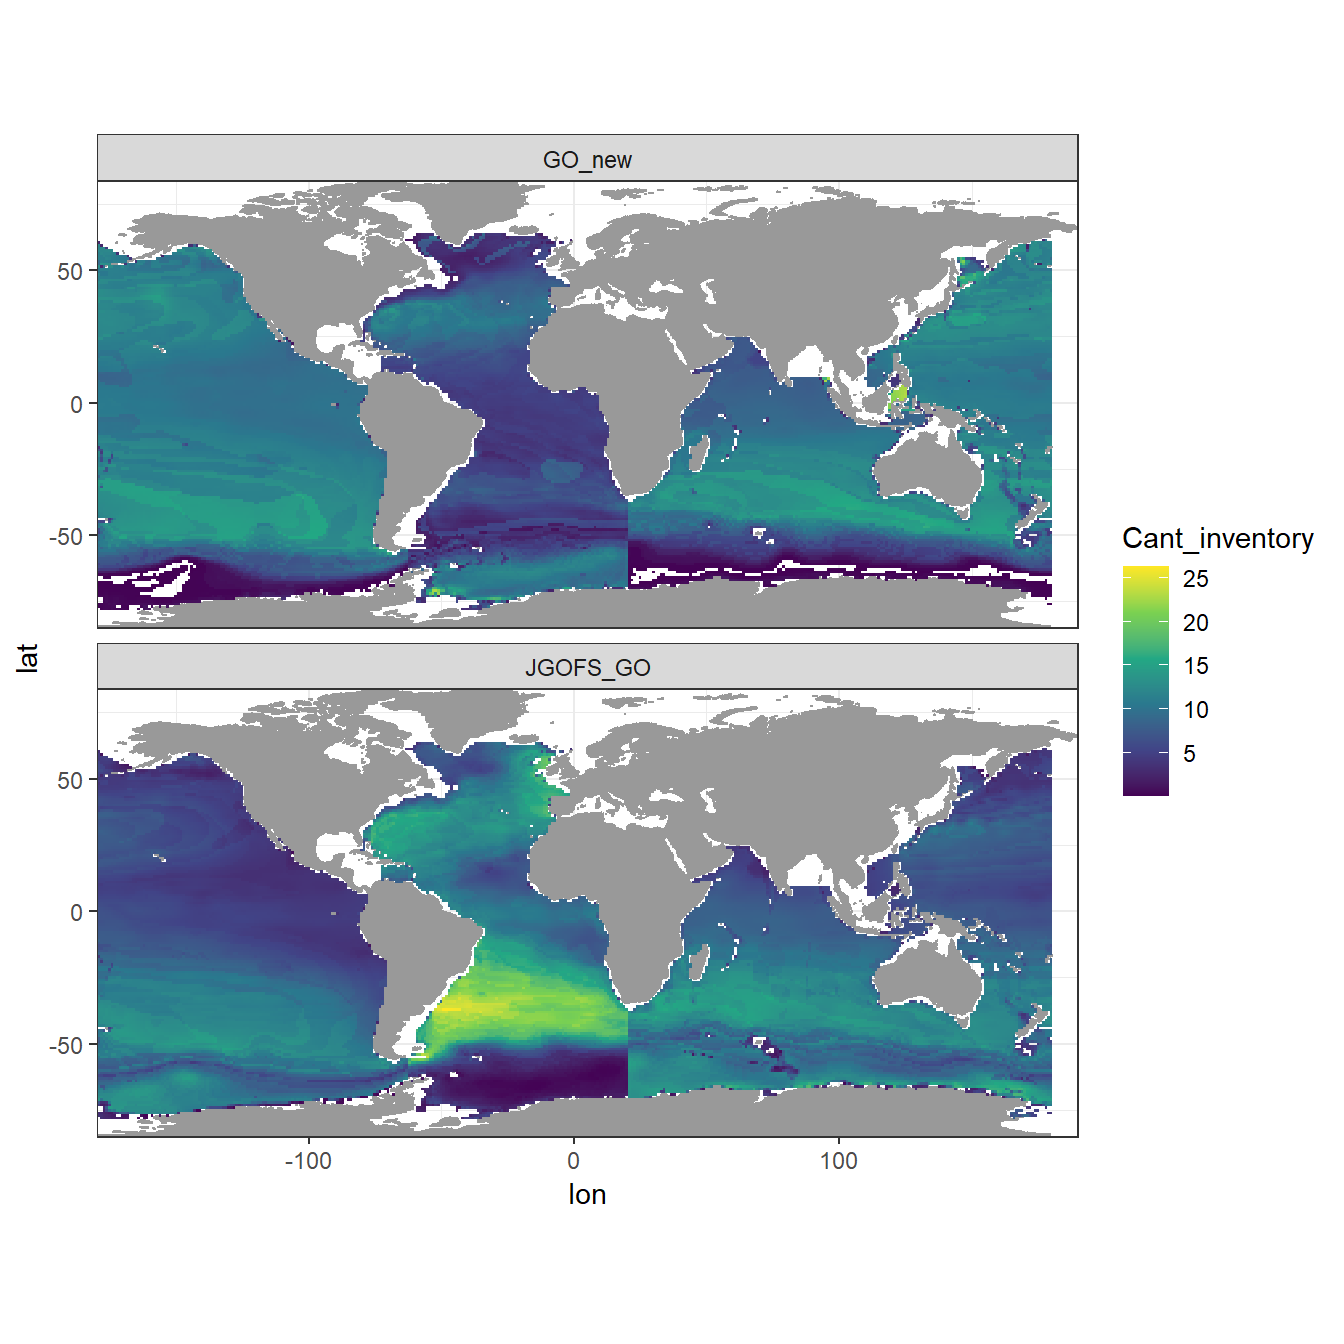
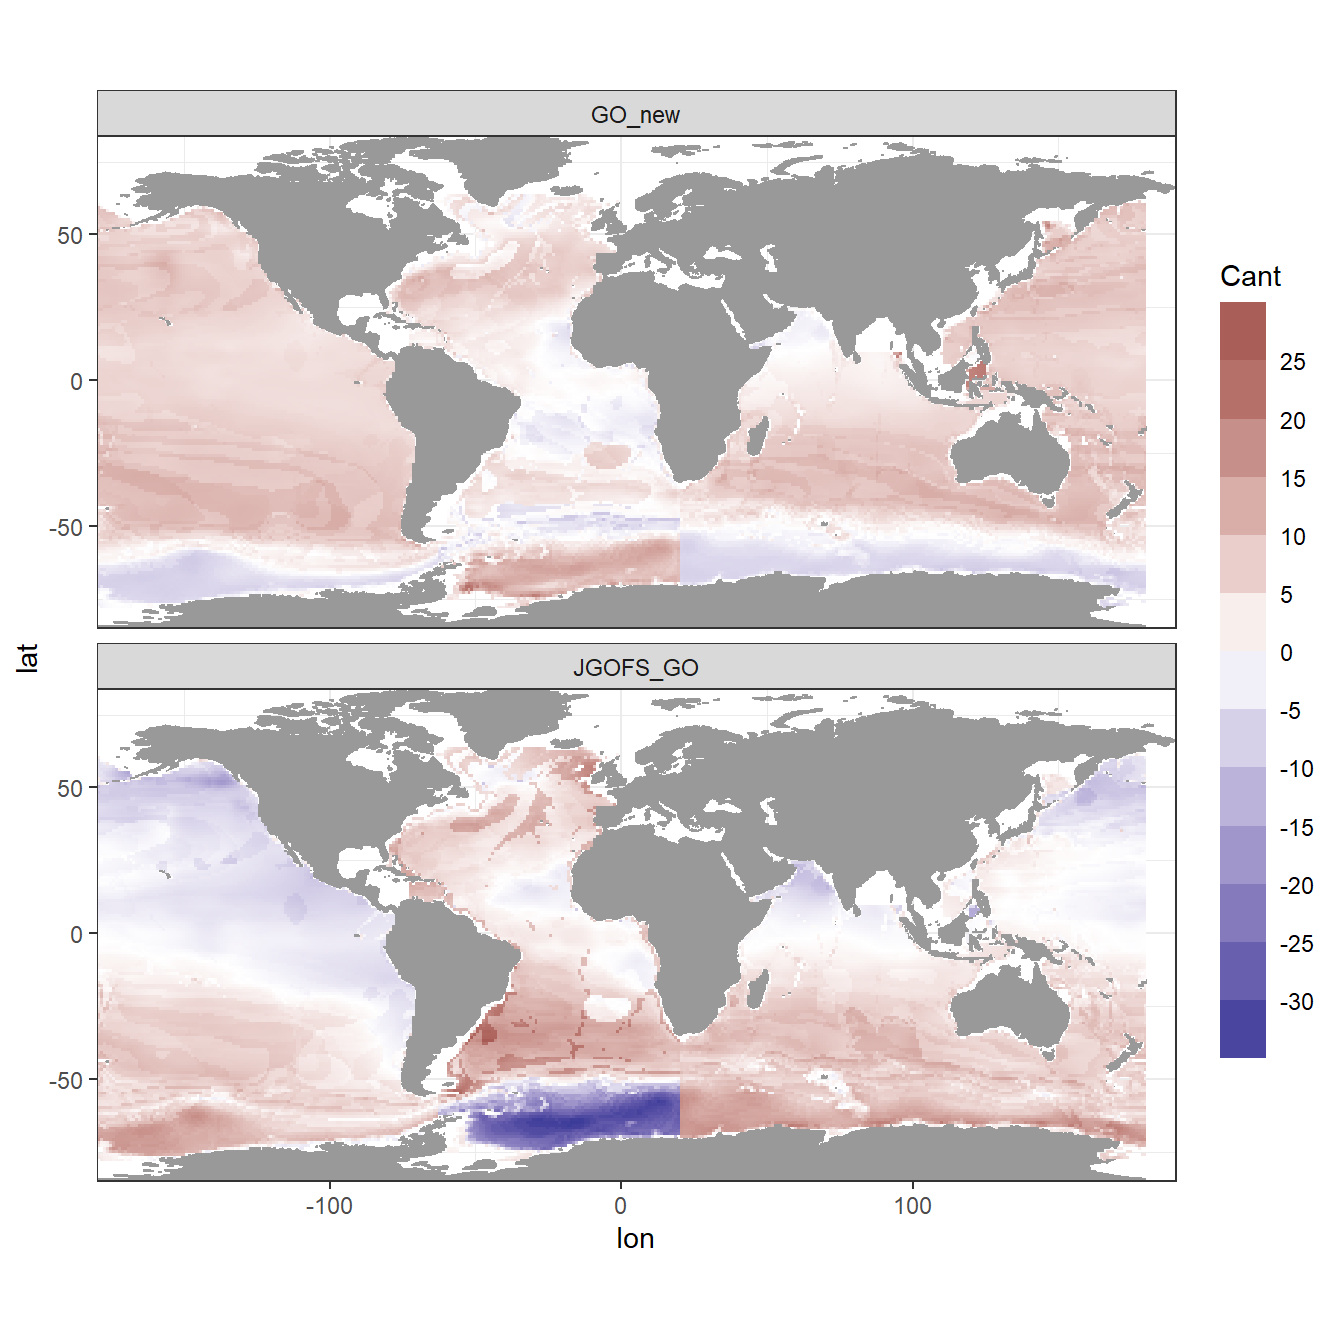
Build site.

diff --git a/docs/mapping.html b/docs/mapping.html
@@ -549,16 +549,16 @@ This reproducible <a href="http://rmarkdown.rstudio.com">R Markdown</a> analysis
 <div class="panel panel-default">
 <div class="panel-heading">
 <p class="panel-title">
-<a data-toggle="collapse" data-parent="#workflowr-checks" href="#strongRepositoryversionstrongahrefhttpsgithubcomjensdanielmuellerCanteMLRtree392f59457d3da0c8bdac5122205ac5ef70fc10d6targetblank392f594a"> <span class="glyphicon glyphicon-ok text-success" aria-hidden="true"></span> <strong>Repository version:</strong> <a href="https://github.com/jens-daniel-mueller/Cant_eMLR/tree/392f59457d3da0c8bdac5122205ac5ef70fc10d6" target="_blank">392f594</a> </a>
+<a data-toggle="collapse" data-parent="#workflowr-checks" href="#strongRepositoryversionstrongahrefhttpsgithubcomjensdanielmuellerCanteMLRtreeef5ef59e41e6cc61644da71014f013bddfe10c06targetblankef5ef59a"> <span class="glyphicon glyphicon-ok text-success" aria-hidden="true"></span> <strong>Repository version:</strong> <a href="https://github.com/jens-daniel-mueller/Cant_eMLR/tree/ef5ef59e41e6cc61644da71014f013bddfe10c06" target="_blank">ef5ef59</a> </a>
 </p>
 </div>
[2 lines of base64/hex data omitted]
 <div class="panel-body">
 <p>
 Great! You are using Git for version control. Tracking code development and connecting the code version to the results is critical for reproducibility.
 </p>
 <p>
-The results in this page were generated with repository version <a href="https://github.com/jens-daniel-mueller/Cant_eMLR/tree/392f59457d3da0c8bdac5122205ac5ef70fc10d6" target="_blank">392f594</a>. See the <em>Past versions</em> tab to see a history of the changes made to the R Markdown and HTML files.
+The results in this page were generated with repository version <a href="https://github.com/jens-daniel-mueller/Cant_eMLR/tree/ef5ef59e41e6cc61644da71014f013bddfe10c06" target="_blank">ef5ef59</a>. See the <em>Past versions</em> tab to see a history of the changes made to the R Markdown and HTML files.
 </p>
 <p>
 Note that you need to be careful to ensure that all relevant files for the analysis have been committed to Git prior to generating the results (you can use <code>wflow_publish</code> or <code>wflow_git_commit</code>). workflowr only checks the R Markdown file, but you know if there are other scripts or data files that it depends on. Below is the status of the Git repository when the results were generated:
@@ -615,6 +615,40 @@ Message
 </tr>
 </thead>
 <tbody>
+<tr>
+<td>
+Rmd
+</td>
+<td>
+<a href="https://github.com/jens-daniel-mueller/Cant_eMLR/blob/ef5ef59e41e6cc61644da71014f013bddfe10c06/analysis/mapping.Rmd" target="_blank">ef5ef59</a>
+</td>
+<td>
+jens-daniel-mueller
+</td>
+<td>
+2020-08-05
+</td>
+<td>
+Inventories without sign and formating
+</td>
+</tr>
+<tr>
+<td>
+html
+</td>
+<td>
+<a href="https://rawcdn.githack.com/jens-daniel-mueller/Cant_eMLR/68fc06a67d3da2d39a18b694a3f8c6feee5ffed2/docs/mapping.html" target="_blank">68fc06a</a>
+</td>
+<td>
+jens-daniel-mueller
+</td>
+<td>
+2020-08-05
+</td>
+<td>
+Build site.
+</td>
+</tr>
 <tr>
 <td>
 Rmd
@@ -1505,6 +1539,30 @@ Cant_model_average_zonal &lt;- Cant_model_average %&gt;%
 </div>
 <div id="cant-maps" class="section level1">
 <h1><span class="header-section-number">6</span> Cant maps</h1>
+<div id="depth-layers" class="section level2">
+<h2><span class="header-section-number">6.1</span> Depth layers</h2>
+<pre class="r"><code>mapWorld &lt;- borders(&quot;world&quot;, colour = &quot;gray60&quot;, fill = &quot;gray60&quot;)
+
+Cant_model_average %&gt;%
+  filter(depth %in% c(150, 500, 1000, 3000)) %&gt;% 
+  ggplot(aes(lon, lat, fill = Cant_mean)) + 
+  mapWorld +
+  geom_raster() +
+  scale_fill_divergent(guide = &quot;colorstrip&quot;,
+                       breaks = MakeBreaks(5),
+                       name = &quot;Cant&quot;) +
+  guides(fill = guide_colorsteps(barheight = unit(10, &quot;cm&quot;))) +
+  coord_quickmap(expand = 0) +
+  facet_grid(depth~eras)</code></pre>
+<p><img src="figure/mapping.Rmd/Cant_depth_layer_maps-1.png" width="672" style="display: block; margin: auto;" /></p>
+</div>
+<div id="inventory-calculation" class="section level2">
+<h2><span class="header-section-number">6.2</span> Inventory calculation</h2>
+<p>To calculate Cant column inventories, we:</p>
+<ol style="list-style-type: decimal">
+<li>Multiple layer thickness with Cant concentration to get a layer inventory</li>
+<li>Sum positive Cant layer inventories from 150 - 3000 m</li>
+</ol>
 <pre class="r"><code>depth_level_volume &lt;- tibble(
   depth = unique(Cant_model_average_zonal$depth))
 
@@ -1522,36 +1580,40 @@ rm(depth_level_volume)</code></pre>
   mutate(Cant_layer = Cant_mean * layer_thickness)
 
 Cant_inventory &lt;- Cant_model_average %&gt;% 
-  filter(depth &lt; 3000,
-         Cant_layer &gt;= 0) %&gt;% 
+  filter(depth &lt;= 3000) %&gt;% 
+  mutate(Cant_pos_layer = if_else(Cant_layer &lt; 0, 0, Cant_layer)) %&gt;% 
   group_by(lon, lat, basin, eras) %&gt;% 
-  summarise(Cant_inventory = sum(Cant_layer, na.rm = TRUE) / 1000) %&gt;% 
+  summarise(Cant_pos_inventory = sum(Cant_pos_layer, na.rm = TRUE) / 1000,
+            Cant_inventory = sum(Cant_layer, na.rm = TRUE) / 1000) %&gt;% 
   ungroup()</code></pre>
-<div id="depth-layers" class="section level2">
-<h2><span class="header-section-number">6.1</span> Depth layers</h2>
-<pre class="r"><code>mapWorld &lt;- borders(&quot;world&quot;, colour = &quot;gray60&quot;, fill = &quot;gray60&quot;)
-
-Cant_model_average %&gt;%
-  filter(depth %in% c(150, 500, 1000, 3000)) %&gt;% 
-  ggplot(aes(lon, lat, fill = Cant_mean)) + 
-  mapWorld +
-  geom_raster() +
-  scale_fill_steps2(breaks = seq(-100,100,10)) +
-  guides(fill = guide_colorsteps(barheight = unit(10, &quot;cm&quot;))) +
-  coord_quickmap(expand = 0) +
-  facet_grid(depth~eras)</code></pre>
-<p><img src="figure/mapping.Rmd/Cant_depth_layer_maps-1.png" width="672" style="display: block; margin: auto;" /></p>
 </div>
 <div id="inventories" class="section level2">
-<h2><span class="header-section-number">6.2</span> Inventories</h2>
+<h2><span class="header-section-number">6.3</span> Inventories</h2>
+<div id="all-cant-estimates" class="section level3">
+<h3><span class="header-section-number">6.3.1</span> All Cant estimates</h3>
 <pre class="r"><code>Cant_inventory %&gt;% 
   ggplot(aes(lon, lat, fill = Cant_inventory)) + 
+  mapWorld +
+  geom_raster() +
+  scale_fill_divergent(guide = &quot;colorstrip&quot;,
+                       breaks = MakeBreaks(5),
+                       name = &quot;Cant&quot;) +
+  guides(fill = guide_colorsteps(barheight = unit(10, &quot;cm&quot;))) +
+  coord_quickmap(expand = 0) +
+  facet_wrap(~eras, ncol = 1)</code></pre>
+<p><img src="figure/mapping.Rmd/Cant_inventory_map-1.png" width="672" style="display: block; margin: auto;" /></p>
+</div>
+<div id="positive-cant-estimates" class="section level3">
+<h3><span class="header-section-number">6.3.2</span> Positive Cant estimates</h3>
+<pre class="r"><code>Cant_inventory %&gt;% 
+  ggplot(aes(lon, lat, fill = Cant_pos_inventory)) + 
   mapWorld +
   geom_raster() +
   scale_fill_viridis_c() +
   coord_quickmap(expand = 0) +
   facet_wrap(~eras, ncol = 1)</code></pre>
-<p><img src="figure/mapping.Rmd/Cant_inventory_map-1.png" width="672" style="display: block; margin: auto;" /></p>
+<p><img src="figure/mapping.Rmd/Cant_pos_inventory_map-1.png" width="672" style="display: block; margin: auto;" /></p>
+</div>
 </div>
 </div>
 <div id="neutral-density-calculation" class="section level1">
